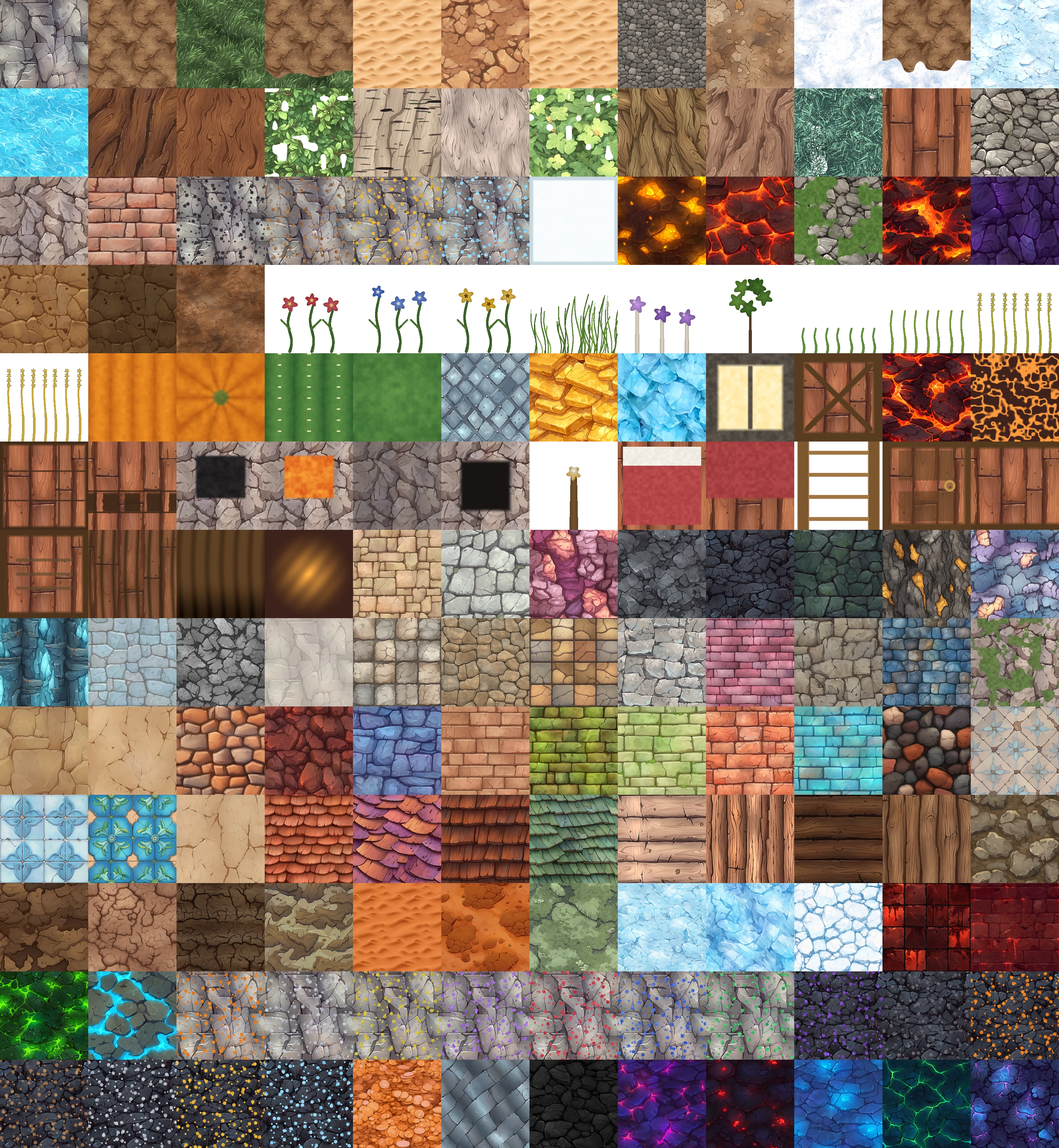
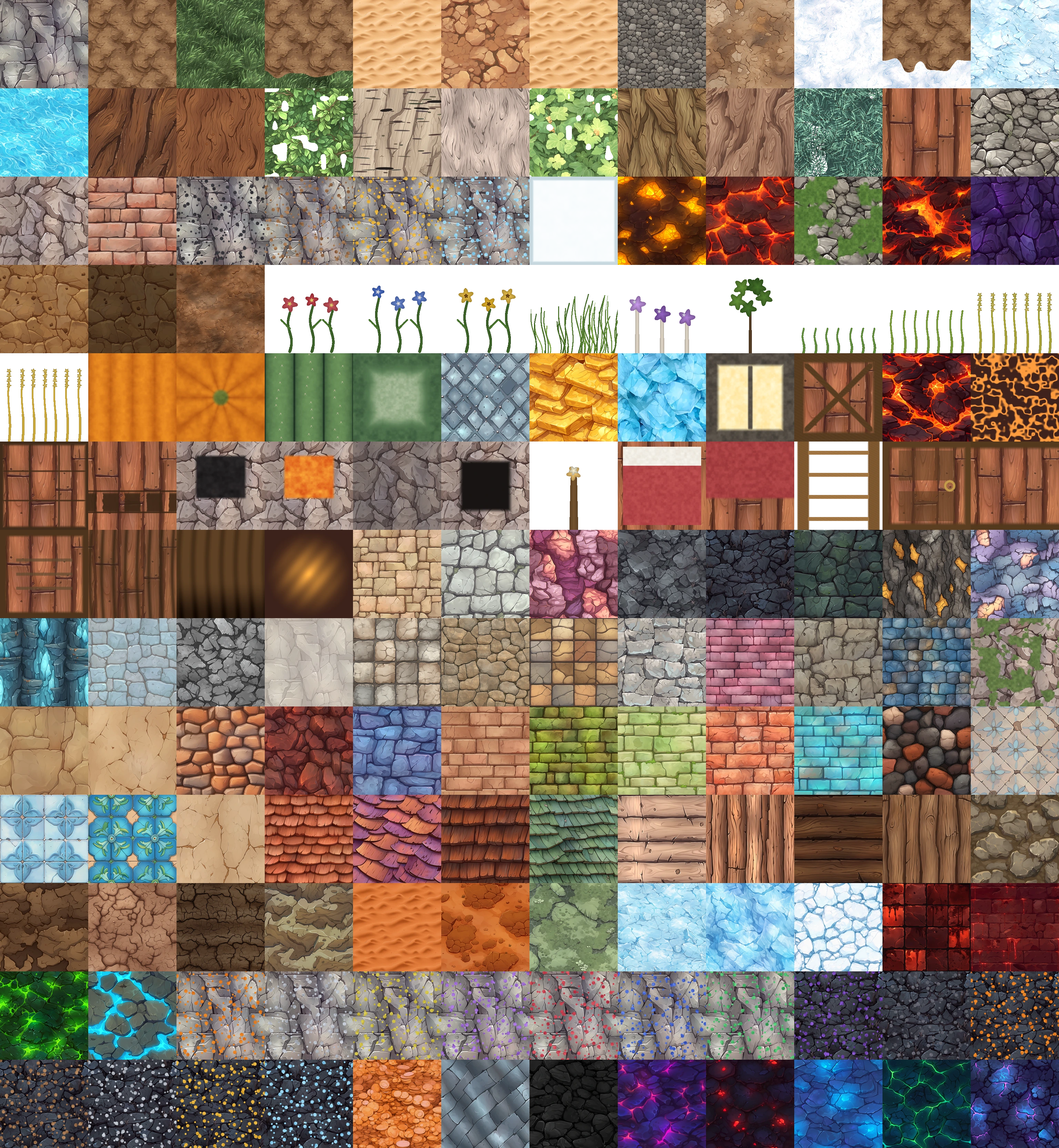
A cactus with ribs on it.
The old tile had the ribs as |sin(3*pi*u)| written straight into the colour,
which is a smooth sine - a vertical gradient, not a rib. A saguaro's section
is a scallop: a rounded crest that catches the whole sky, then a groove that
plunges into its own shadow. The profile is a power curve now with a hard
dark line at the bottom of each groove, and it drives ao and height as well
as albedo, so the break is in the shading and not only in the paint.

The spines were an axis-aligned rectangle test, which is why they read as
printed dashes. They are areoles now - a woolly pad with needles fanning down
off it, in polar coordinates about the pad's own centre, on a grid measured in
tile space so the pad is round rather than stretched by the rib count.

Size was the whole of whether that reads as a plant or a motif, and the first
attempt got it wrong in the other direction: a 0.026 pad with six needles out
to 0.062 is a 32px asterisk on a 256px tile, twenty-four of them in a regular
lattice, and it baked as snowflakes on Christmas wrapping paper. A spine
cluster is a fleck - it is the texture of the surface, not a feature on it -
so everything is about a third of that, with more of them and a jittered
lattice.

The cut top is rebuilt on Chebyshev distance, not Euclidean: a block top is a
square and its rind follows all four edges at a constant width, where a
Euclidean radius leaves the corners a third further out and bakes as a blurred
[…]

Changed region(s): [[0.25, 0.3125, 0.4375, 0.4062]]

diff --git a/src/render/TextureGen.js b/src/render/TextureGen.js
@@ -1081,33 +1081,161 @@ G.pumpkin_top = (s) => {
   return s;
 };
 
+// A cactus is three things, and the old tile had one and a half of them.
+//
+// It had ribs as `|sin(3πu)|` written straight into the colour, which is a
+// smooth sine — a vertical GRADIENT, not a rib. A saguaro's section is a
+// scallop: a broad flat crest that catches the whole sky, then a groove that
+// falls away sharply and sits in its own shadow. `crest` is that profile,
+// smoothstepped hard so the groove is a narrow dark line and the crest is wide
+// and even, and it drives ao and height as well as albedo so the break is there
+// in the shading and not only in the paint. That is the "no shading break".
+//
+// It had spines as an axis-aligned rectangle — `|((3u) mod 1) - 0.5| < 0.06`
+// against `((8v) mod 1) < 0.12` — which is why they read as printed dashes
+// rather than as anything growing on the plant. Spines grow from an AREOLE, a
+// woolly pad, and they radiate from it. Both are drawn in polar coordinates
+// about the pad's own centre, on a grid measured in TILE space rather than in
+// rib space, so a pad is round rather than stretched three to one by the rib
+// count, and alternate ribs are offset half a row so the pads do not line up
+// into bands across the block.
+//
+// SIZE is the whole of whether that reads as a plant or as a motif. The first
+// attempt gave each pad a 0.026 radius with six needles out to 0.062 — on a
+// 256px tile that is a 32px asterisk, twenty-four of them in a regular lattice,
+// and baked it came out as snowflakes on Christmas wrapping paper. A spine
+// cluster on a real saguaro is a fleck: it is the TEXTURE of the surface, not a
+// feature on it. Everything below is roughly a third of that first size, with
+// more of them, and the needles fan downward rather than radiating evenly,
+// which is both what they do and what keeps them from closing into a star.
+//
+// And it was too saturated: 40,88,42 to 96,148,70 is an emerald, and the recon
+// pass called it "more saturated than anything else in frame" standing in a
+// desert whose sand is 236,184,128. A desert succulent is a dusty blue-green —
+// it carries a wax bloom that scatters the sky back. The palette keeps the same
+// luminance band (the block still has to read as green from across a canyon)
+// and moves the hue toward sage. Not further: taken all the way to r-b 5 it
+// stopped reading as a plant at all and became a painted post, so this sits
+// halfway, at r-b ~10 against the old 15.
+const CACTUS_RIBS = 3;
+/**
+ * The scallop profile across the ribs, 0 in the groove and 1 on the crest.
+ * Shared with `cactus_top` so the cap's edge scallops line up with the flank's
+ * grooves — a cactus whose top does not agree with its sides is a green box.
+ *
+ * `pow` and not a second smoothstep. The crest of a rib is a CYLINDER seen
+ * side-on: it falls away gently either side of its ridge and then plunges into
+ * the groove, so the profile wants to be rounded over most of its width and
+ * steep only at the very bottom. A smoothstep is flat at both ends, which gave
+ * three wide even bands with soft edges — a gradient again, which is the defect.
+ */
+function cactusCrest(u) {
+  return Math.pow(Math.abs(Math.sin(u * Math.PI * CACTUS_RIBS)), 0.55);
+}
+/** The hard dark line at the bottom of a groove, where two ribs meet. */
+function cactusGroove(u) {
+  return smoothstep(0.16, 0.0, Math.abs(Math.sin(u * Math.PI * CACTUS_RIBS)));
+}
+/** Stable per-cell hash, so an areole can be nudged off the lattice. */
+function cellHash(a, b) {
+  let h = (Math.imul(a | 0, 374761393) + Math.imul(b | 0, 668265263)) | 0;
+  h = Math.imul(h ^ (h >>> 13), 1274126177);
+  return ((h ^ (h >>> 16)) >>> 0) / 4294967296;
+}
 G.cactus_side = (s) => {
-  const f = fbm(s.size, 22, 3, 851);
+  const f = fbm(s.size, 30, 3, 851);
+  const bloom = fbm(s.size, 9, 3, 853);      // uneven wax, so a face is not flat
+  const ROWS = 11;
   s.each((i, x, y, u, v) => {
-    const rib = Math.abs(Math.sin(u * Math.PI * 3));
-    const n = rib * 0.7 + f[i] * 0.3;
-    let c = mixc(px([40, 88, 42]), px([96, 148, 70]), n);
-    const spineX = Math.abs(((u * 3) % 1) - 0.5) < 0.06;
-    const spineY = ((v * 8) % 1) < 0.12;
-    if (spineX && spineY) c = px([232, 228, 190]);
+    const crest = cactusCrest(u);
+    const flesh = crest * 0.74 + f[i] * 0.16 + bloom[i] * 0.10;
+    let c = mixc(px([36, 62, 42]), px([116, 156, 96]), flesh);
+    c = mixc(c, px([22, 40, 30]), cactusGroove(u) * 0.8);
+    let h = crest * 0.86 + f[i] * 0.08;
+    let ao = 0.44 + crest * 0.56;
+    let rough = 0.70;
+
+    // --- areole and spines, in polar coordinates about the pad -------------
+    // `ru`/`rv` are the cell coordinates and dx/dy convert them back to tile
+    // space, so a pad is round rather than stretched by the cell's aspect.
+    const ribI = Math.floor(u * CACTUS_RIBS);
+    const rowOff = (ribI & 1) * 0.5;
+    const ru = (u * CACTUS_RIBS) % 1;
+    const rv = (v * ROWS + rowOff) % 1;
+    // A saguaro's areoles really do run in rows up the ribs, so the lattice is
+    // right; a perfect lattice is not.
+    const rowI = Math.floor(v * ROWS + rowOff);
+    const jx = (cellHash(ribI, rowI) - 0.5) * 0.30;
+    const jy = (cellHash(rowI, ribI + 31) - 0.5) * 0.24;
+    const dx = (ru - 0.5 - jx) / CACTUS_RIBS, dy = (rv - 0.5 - jy) / ROWS;
+    const d = Math.hypot(dx, dy);
+    const pad = smoothstep(0.011, 0.005, d);
+    // The needles fan DOWN, not out: `a` is measured from straight down and the
+    // fan is a cosine window on it, so a cluster is a tuft with a direction
+    // rather than a symmetric star. `sin(a * 2.5)` puts five needles inside the
+    // fan; the exponent keeps them one or two texels wide.
+    const a = Math.atan2(dy, dx) - Math.PI / 2;
+    const fan = Math.max(0, Math.cos(a * 0.8));
+    const ray = Math.pow(Math.abs(Math.sin(a * 2.5)), 26) * fan;
+    const spine = ray * smoothstep(0.007, 0.011, d) * smoothstep(0.024, 0.017, d);
+    if (pad > 0.01) {
+      c = mixc(c, px([182, 176, 148]), pad * 0.9);
+      h = lerp(h, 0.94, pad); ao = lerp(ao, 0.66, pad); rough = lerp(rough, 0.95, pad);
+    }
+    if (spine > 0.01) {
+      c = mixc(c, px([214, 208, 176]), spine * 0.85);
+      h = lerp(h, 0.99, spine); rough = lerp(rough, 0.55, spine);
+    }
     setRGB(s, i, c);
-    s.h[i] = n;
-    s.rough[i] = 0.8;
-    s.ao[i] = 0.6 + rib * 0.4;
+    s.h[i] = h; s.ao[i] = ao; s.rough[i] = rough;
   });
-  s.normalStrength = 1.8;
+  s.normalStrength = 2.2;
   return s;
 };
+/**
+ * The cut top of a cactus: a scalloped green rind around a pale wet pith, with
+ * the pith's fibres running out radially toward the ribs.
+ *
+ * The old version was `1 - distance from centre` over noise — a green dome, and
+ * the recon shot of it is a soft square with a lighter middle that says nothing
+ * about which block it caps.
+ *
+ * The frame is CHEBYSHEV distance, not Euclidean, and that is the whole of why
+ * the first rewrite of this failed as well. A block's top is a square, its rind
+ * follows all four edges at a constant width, and a Euclidean radius drawn on a
+ * square leaves the corners a third further out than the edge midpoints — which
+ * baked as a blurred four-pointed cross. Chebyshev gives a square band of even
+ * width, and the rib phase then bends it in and out along whichever edge is
+ * nearest, so a stack of cactus blocks has its cap notches in line with the
+ * grooves running up its flanks.
+ *
+ * Everything here is quiet on purpose, and the second attempt was not. It had a
+ * hard dark line drawn along the rind's inner boundary and a nine-fold spoke
+ * pattern across the pith, and at three ribs to an edge those two turned the
+ * cap into a four-petal ornament with a sunburst in it — a tile you would put
+ * on a bathroom wall. This is a one-block cap seen from above at the top of a
+ * plant: a green rim, a pale middle, a soft boundary, and no drawing.
+ */
 G.cactus_top = (s) => {
-  const f = fbm(s.size, 14, 3, 861);
+  const f = fbm(s.size, 20, 3, 861);
+  const fibre = fbm(s.size, 34, 2, 863);
   s.each((i, x, y, u, v) => {
-    const d = Math.hypot(u - 0.5, v - 0.5) * 2;
-    const c = mixc(px([56, 106, 50]), px([110, 160, 78]), f[i] * 0.7 + (1 - d) * 0.3);
+    const eu = Math.abs(u - 0.5) * 2, ev = Math.abs(v - 0.5) * 2;
+    const cheb = Math.max(eu, ev);                       // 0 centre, 1 at edge
+    // the nearer edge decides the phase; its crest pushes the rind outward
+    const scallop = eu > ev ? cactusCrest(v) : cactusCrest(u);
+    const r = cheb - scallop * 0.06;
+    const rind = smoothstep(0.44, 0.78, r);              // 1 on the green rim
+    const pith = smoothstep(0.62, 0.34, r);              // 1 in the wet middle
+    let c = mixc(px([112, 146, 102]), px([80, 118, 78]), f[i]);
+    c = mixc(c, mixc(px([46, 74, 50]), px([88, 124, 82]), f[i]), rind * 0.85);
+    c = mixc(c, mixc(px([150, 172, 136]), px([194, 206, 176]), fibre[i]), pith * 0.80);
     setRGB(s, i, c);
-    s.h[i] = 1 - d * 0.5;
-    s.rough[i] = 0.82;
-    s.ao[i] = 0.7 + (1 - d) * 0.3;
+    s.h[i] = 0.34 + pith * 0.44 - rind * 0.2;
+    s.rough[i] = 0.88 - pith * 0.24;                     // the cut face is damp
+    s.ao[i] = 0.64 + pith * 0.28 - rind * 0.12;
   });
+  s.normalStrength = 1.3;
   return s;
 };
 
